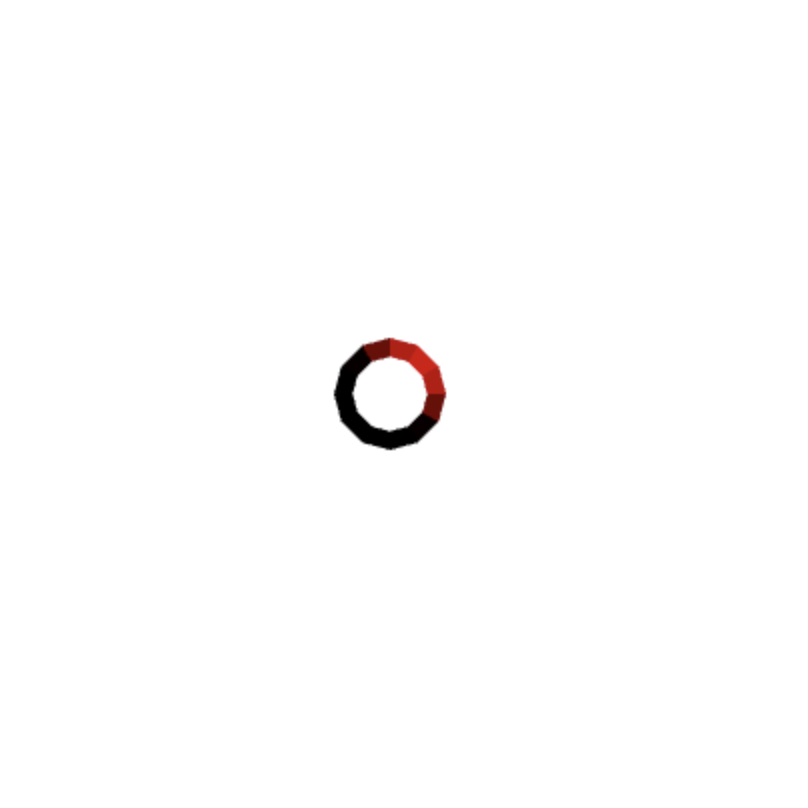
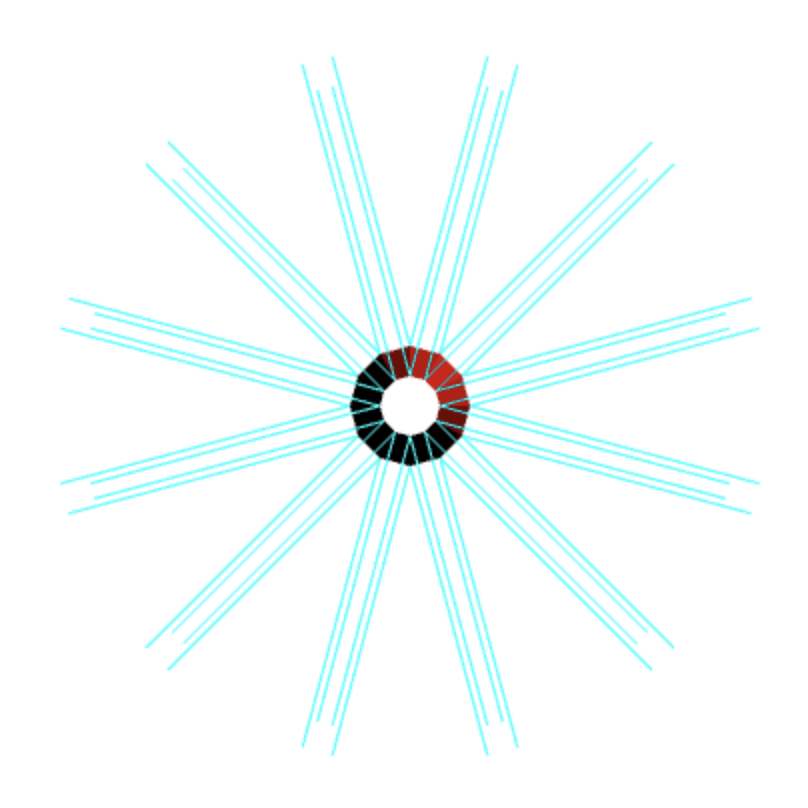
10/19/19

Changed region(s): [[0.0619, 0.0619, 0.9282, 0.9282]]

diff --git a/lab2/tc.js b/lab2/tc.js
@@ -3,12 +3,13 @@ var VSHADER_SOURCE =
     'attribute vec4 a_Position;\n' +
     'attribute vec4 a_Color;\n' +
     'attribute vec3 a_Normal;\n' +        // Normal
-    'uniform mat4 u_MvpMatrix;\n' +
+    'uniform mat4 u_ViewMatrix;\n' +
+    'uniform mat4 u_ProjMatrix;\n' +
     'uniform vec3 u_LightColor;\n' +     // Light color
     'uniform vec3 u_LightDirection;\n' + // Light direction (in the world coordinate, normalized)
     'varying vec4 v_Color;\n' +
     'void main() {\n' +
-    '  gl_Position = u_MvpMatrix * a_Position ;\n' +
+    '  gl_Position = u_ProjMatrix * u_ViewMatrix * a_Position;\n' +
     // Make the length of the normal 1.0
     '  vec3 normal = normalize(a_Normal);\n' +
     // Dot product of the light direction and the orientation of a surface (the normal)
@@ -31,9 +32,10 @@ var FSHADER_SOURCE =
 // Vertex shader for normal display
 var vshader =
     'attribute vec4 a_Position;\n' +
-    'uniform mat4 u_MvpMatrix;\n' +
+    'uniform mat4 u_ViewMatrix;\n' +
+    'uniform mat4 u_ProjMatrix;\n' +
     'void main() {\n' +
-    '  gl_Position = u_MvpMatrix * a_Position;\n' +
+    '  gl_Position = u_ProjMatrix * u_ViewMatrix * a_Position;\n' +
     '}\n';
 
 // Fragment shader for normal display
@@ -74,19 +76,22 @@ function main() {
     cylinderProgram.a_Position = gl.getAttribLocation(cylinderProgram, 'a_Position');
     cylinderProgram.a_Color = gl.getAttribLocation(cylinderProgram, 'a_Color');
     cylinderProgram.a_Normal = gl.getAttribLocation(cylinderProgram, 'a_Normal');
-    cylinderProgram.u_MvpMatrix = gl.getUniformLocation(cylinderProgram, 'u_MvpMatrix');
+    cylinderProgram.u_ViewMatrix = gl.getUniformLocation(cylinderProgram, 'u_ViewMatrix');
+    cylinderProgram.u_ProjMatrix = gl.getUniformLocation(cylinderProgram, 'u_ProjMatrix');
     cylinderProgram.u_LightColor = gl.getUniformLocation(cylinderProgram, 'u_LightColor');
     cylinderProgram.u_LightDirection = gl.getUniformLocation(cylinderProgram, 'u_LightDirection');
     if (cylinderProgram.a_Position < 0 || cylinderProgram.a_Color < 0 || cylinderProgram.a_Normal < 0 ||
-        cylinderProgram.u_MvpMatrix < 0 || cylinderProgram.u_LightColor < 0 || cylinderProgram.u_LightDirection < 0) {
+        cylinderProgram.u_ViewMatrix < 0 || cylinderProgram.u_ProjMatrix < 0 || cylinderProgram.u_LightColor < 0 || 
+        cylinderProgram.u_LightDirection < 0) {
         console.log('Failed to locate variables for cylinder');
         return -1;
     }
 
     // Get location of all the variables for drawing normals
     lineProgram.a_Position = gl.getAttribLocation(lineProgram, 'a_Position');
-    lineProgram.u_MvpMatrix = gl.getUniformLocation(lineProgram, 'u_MvpMatrix');
-    if (lineProgram.a_Position < 0 || lineProgram.u_MvpMatrix < 0) {
+    lineProgram.u_ViewMatrix = gl.getUniformLocation(lineProgram, 'u_ViewMatrix');
+    lineProgram.u_ProjMatrix = gl.getUniformLocation(lineProgram, 'u_ProjMatrix');
+    if (lineProgram.a_Position < 0 || lineProgram.u_ViewMatrix < 0 || lineProgram.u_ProjMatrix < 0) {
         console.log('Failed to locate variables for lines');
         return -1;
     }
@@ -439,10 +444,10 @@ function setNormals() {
  * this cylindar is located at (0, 0)
  */
 function generate_tc() {
-    var r1 = 0.5;
-    var r2 = 1;
+    var r1 = 0.05;
+    var r2 = 0.1;
     var theta = Math.PI / 6;
-    var height = 10;
+    var height = 1;
     var topx = [], topy = [];
     var bottomx = [], bottomy = [];
     for (var i = 0; i < 13; i++) {
@@ -605,45 +610,57 @@ function initLightDirection(gl, cylinderProgram) {
  * output:
  * none
  * use:
- * initialize u_MvpMatrix
+ * initialize u_ViewMatrx and u_ProjMatrix
  */
 function initMatrix(gl, cylinderProgram, lineProgram, tag1, tag2) {
     if (tag1 == 0) { // Currently cylinderProgram in use
         gl.useProgram(cylinderProgram);
         if (tag2 == 0) { // Draw from top view
-            // Set the eye point and the viewing volume
-            var mvpMatrix = new Matrix4();
-            mvpMatrix.setPerspective(30, 1, 1, 100);
-            mvpMatrix.lookAt(0, 0, 40, 0, 0, 0, 0, 1, 0);
-            // Pass the model view projection matrix to u_MvpMatrix
-            gl.uniformMatrix4fv(cylinderProgram.u_MvpMatrix, false, mvpMatrix.elements);
+            var viewMatrix = new Matrix4();
+            viewMatrix.setLookAt(0, 0, 1, 0, 0, 0, 0, 1, 0);
+            // Set the view matrix
+            gl.uniformMatrix4fv(cylinderProgram.u_ViewMatrix, false, viewMatrix.elements);
+            // Create the matrix to set the eye point, and the line of sight
+            var projMatrix = new Matrix4();
+            projMatrix.setOrtho(-1, 1, -1, 1, -2, 2);
+            // Pass the projection matrix to u_ProjMatrix
+            gl.uniformMatrix4fv(cylinderProgram.u_ProjMatrix, false, projMatrix.elements);
         }
         else { // Draw from side view
-            // Set the eye point and the viewing volume
-            var mvpMatrix = new Matrix4();
-            mvpMatrix.setPerspective(30, 1, 1, 100);
-            mvpMatrix.lookAt(0, -40, 30, 0, 0, 0, 0, 1, 0);
-            // Pass the model view projection matrix to u_MvpMatrix
-            gl.uniformMatrix4fv(cylinderProgram.u_MvpMatrix, false, mvpMatrix.elements);
+            var viewMatrix = new Matrix4();
+            viewMatrix.setLookAt(0, -1, 0.75, 0, 0, 0, 0, 1, 0);
+            // Set the view matrix
+            gl.uniformMatrix4fv(cylinderProgram.u_ViewMatrix, false, viewMatrix.elements);
+            // Create the matrix to set the eye point, and the line of sight
+            var projMatrix = new Matrix4();
+            projMatrix.setOrtho(-1, 1, -1, 1, -2, 2);
+            // Pass the projection matrix to u_ProjMatrix
+            gl.uniformMatrix4fv(cylinderProgram.u_ProjMatrix, false, projMatrix.elements);
         }
     }
     else {
         gl.useProgram(lineProgram);
         if (tag2 == 0) {
-            // Set the eye point and the viewing volume
-            var mvpMatrix = new Matrix4();
-            mvpMatrix.setPerspective(30, 1, 1, 100);
-            mvpMatrix.lookAt(0, 0, 40, 0, 0, 0, 0, 1, 0);
-            // Pass the model view projection matrix to u_MvpMatrix
-            gl.uniformMatrix4fv(lineProgram.u_MvpMatrix, false, mvpMatrix.elements);
+            var viewMatrix = new Matrix4();
+            viewMatrix.setLookAt(0, 0, 1, 0, 0, 0, 0, 1, 0);
+            // Set the view matrix
+            gl.uniformMatrix4fv(lineProgram.u_ViewMatrix, false, viewMatrix.elements);
+            // Create the matrix to set the eye point, and the line of sight
+            var projMatrix = new Matrix4();
+            projMatrix.setOrtho(-1, 1, -1, 1, -2, 2);
+            // Pass the projection matrix to u_ProjMatrix
+            gl.uniformMatrix4fv(lineProgram.u_ProjMatrix, false, projMatrix.elements);
         }
         else {
-            // Set the eye point and the viewing volume
-            var mvpMatrix = new Matrix4();
-            mvpMatrix.setPerspective(30, 1, 1, 100);
-            mvpMatrix.lookAt(0, -40, 30, 0, 0, 0, 0, 1, 0);
-            // Pass the model view projection matrix to u_MvpMatrix
-            gl.uniformMatrix4fv(lineProgram.u_MvpMatrix, false, mvpMatrix.elements);
+            var viewMatrix = new Matrix4();
+            viewMatrix.setLookAt(0, -1, 0.75, 0, 0, 0, 0, 1, 0);
+            // Set the view matrix
+            gl.uniformMatrix4fv(lineProgram.u_ViewMatrix, false, viewMatrix.elements);
+            // Create the matrix to set the eye point, and the line of sight
+            var projMatrix = new Matrix4();
+            projMatrix.setOrtho(-1, 1, -1, 1, -2, 2);
+            // Pass the projection matrix to u_ProjMatrix
+            gl.uniformMatrix4fv(lineProgram.u_ProjMatrix, false, projMatrix.elements);
         }
     }
 }

diff --git a/lab2/guide.html b/lab2/guide.html
@@ -18,7 +18,7 @@
         img {
             position: absolute;
             right: 80px;
-            top: 150px;
+            top: 200px;
             box-shadow: 2px 2px 5px steelblue;
             border-radius: 0% 10% 0% 10% / 0% 20% 0% 20%;
         }
@@ -71,11 +71,11 @@
         <p>Open console to view the list of all the points' coordinates of the tapered cylinder by entering
             "points".</p>
         <p>Open console to view the list of normals by entering "n".</p>
-        <p>You need to include Matsuda/Lea lib folder under the same directory with prog1 to see trees.</p>
+        <p>You need to include Matsuda/Lea lib folder under the same directory with lab2 to see the cylinder.</p>
         <a href="features.html">Homepage<br><br></a>
         <a href="driver.html">My canvas</a>
     </div>
-    <img src="screenshot2.png" width="500" height="500">
+    <img src="screenshot2.png" width="500" height="280">
 </body>
 
 </html>
